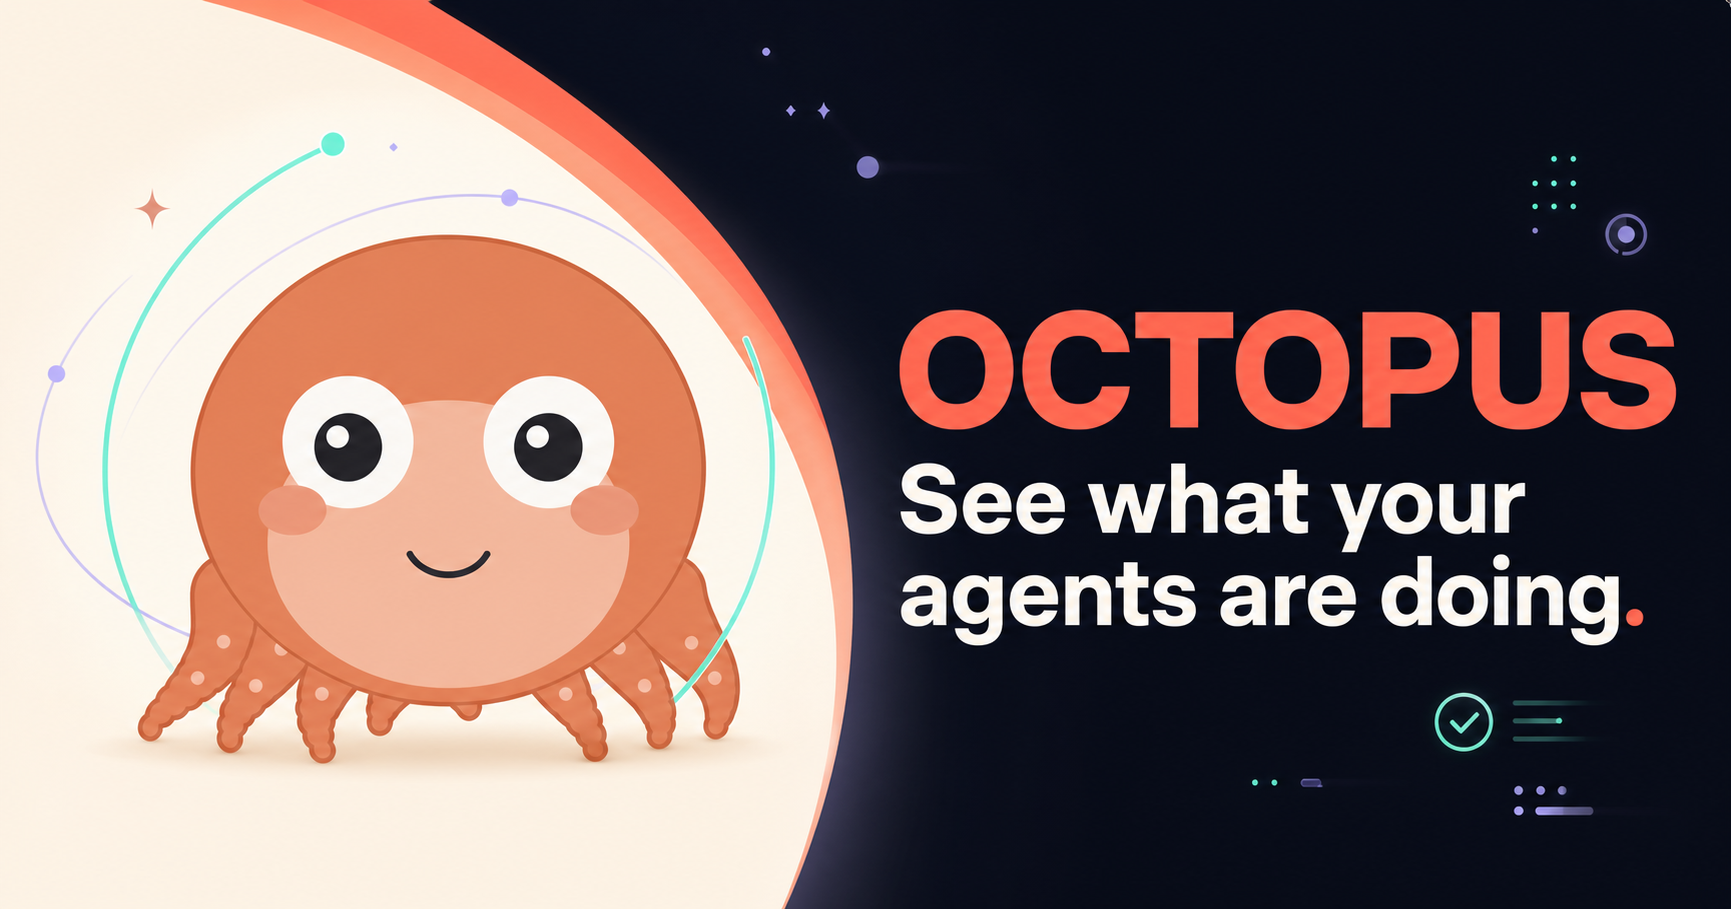
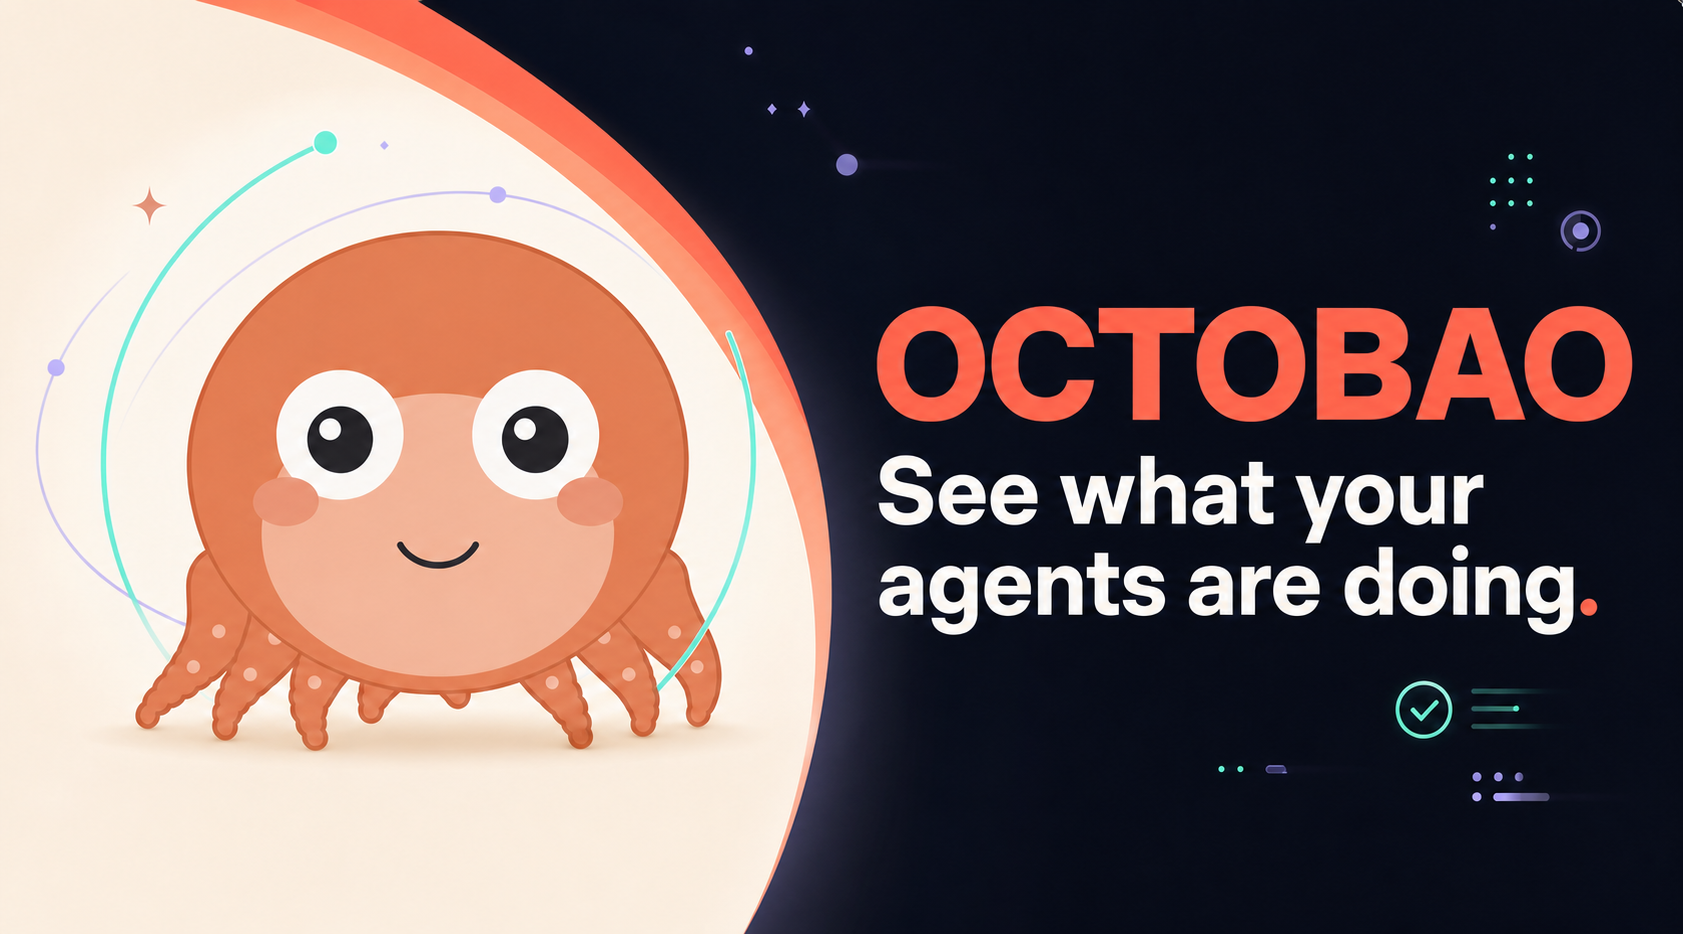
docs: refresh Octobao header branding

diff --git a/README.md b/README.md
@@ -3,7 +3,7 @@
 <div align="center">
   <p><strong>简体中文</strong> · <a href="./README_EN.md">English</a></p>
 
-  <img src="./assets/octopus-theme.png" alt="Octopus — 你的 AI 在忙什么，八宝替你看着" width="100%">
+  <img src="./assets/octopus-theme.png" alt="Octobao — 你的 AI 在忙什么，八宝替你看着" width="100%">
 
   <p><strong>你的 AI 在忙什么，八宝替你看着。</strong></p>
   <p>把 AI 编程 Agent 的工作状态，变成一只常驻桌面的透明小章鱼。</p>

diff --git a/README_EN.md b/README_EN.md
@@ -3,7 +3,7 @@
 <div align="center">
   <p><a href="./README.md">简体中文</a> · <strong>English</strong></p>
 
-  <img src="./assets/octopus-theme.png" alt="Octopus — See what your agents are doing" width="100%">
+  <img src="./assets/octopus-theme.png" alt="Octobao — See what your agents are doing" width="100%">
 
   <p><strong>See what your AI is doing at a glance.</strong></p>
   <p>A transparent desktop octopus that turns AI coding-agent activity into visible status.</p>